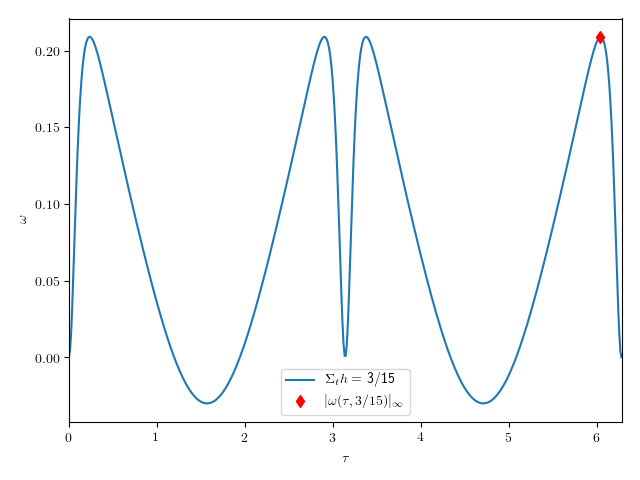
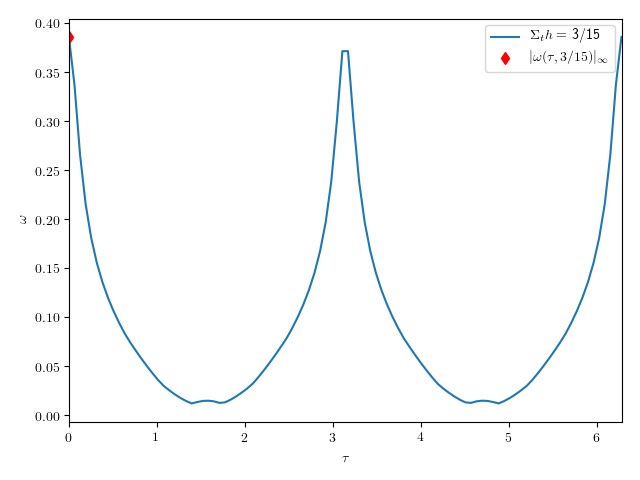
Problem 1

diff --git a/finalProject/1/1c/plotComp.py b/finalProject/1/1c/plotComp.py
@@ -1,0 +1,31 @@
+#!/usr/bin/env py36
+
+"""
+plotCompy.py is a plotter for 1c on 590 final
+"""
+
+import numpy as np
+import configparser
+import sys
+from scipy.special import roots_legendre
+from matplotlib    import pyplot as plt
+
+__author__ = "Kyle Beyer"
+__version__ = "1.0.1"
+__email__ = "beykyle@umich.edu"
+__status__ = "Development"
+
+s = [3.0, 1.5, 1.0, 0.75, 0.6, 0.5, 0.42857142857142855, 0.375, 0.3333333333333333, 0.3, 0.2727272727272727, 0.25, 0.23076923076923078, 0.21428571428571427, 0.2]
+
+sn = [0.48747946017367033, 0.49954149671825954, 0.4995462758540781, 0.4995481606905109, 0.49954929765371164, 0.49954974701065874, 0.4995502964407455, 0.4995506263367659, 0.49955082570542175, 0.4995504338501649, 0.49955057704149336, 0.49955068971083394, 0.49955076545491106, 0.4995508448844155, 0.49955092264853806]
+
+an =[ 3.3238725021761377, 0.8392796684214412, 0.38618151601274736, 0.38618151601274736, 0.38618151601274736, 0.38618151601274736, 0.38618151601274736, 0.38618151601274736, 0.38618151601274736, 0.38618151601274736, 0.38618151601274736, 0.38618151601274736, 0.38618151601274736, 0.38618151601274736, 0.38618151601274736]
+
+plt.plot( s , sn , label=r"$S_N$ spectral radius estimate")
+plt.plot( s , an , label=r"Analytical worst case $|\omega{( \tau  , \Sigma_t \,h )}|_\infty$")
+plt.xlabel(r"$\Sigma_t \, h$")
+plt.ylabel(r"$\rho{(\Sigma_t \, h)}$")
+plt.ylim([0,1])
+plt.legend()
+plt.tight_layout()
+plt.savefig("rho.png")

diff --git a/finalProject/1/1a/specRadSearch.py b/finalProject/1/1a/specRadSearch.py
@@ -26,9 +26,8 @@ def omega_n( tau , s ,  m ):
 
 def omega( tau , s ):
   val  = 0
-  for m , wgt in zip(mu , weights):
-    val = val + omega_n( tau , s , m ) * wgt
-
+  for m , wgt in zip(mu[8:] , weights[8:]):
+    val = val + np.fabs(omega_n( tau , s , m )) * wgt
   return(val)
 
 def printDat( tt , oo  ,i):
@@ -53,7 +52,7 @@ if __name__ == '__main__':
       #plt.title(r"$\Sigma_t h =$ 3/" + str(i+1) )
       plt.tight_layout()
       plt.legend()
-#      plt.savefig( str(i) + ".png"  )
+      plt.savefig( str(i) + ".png"  )
       plt.cla()
 #      plt.show()
 

diff --git a/finalProject/1/1b/runProblem.py b/finalProject/1/1b/runProblem.py
@@ -229,6 +229,8 @@ if __name__ == '__main__':
       ite.append(itera)
     writeOutput( transmission , rho , itera  , settings[i] )
 
+  print(rh)
+
 
   #print("\n")
   #writeTable(tr , '{:1.3E}' , ["2 & " , "4 & " , "8 & " ,"16 & " , "32 & "  ] )
